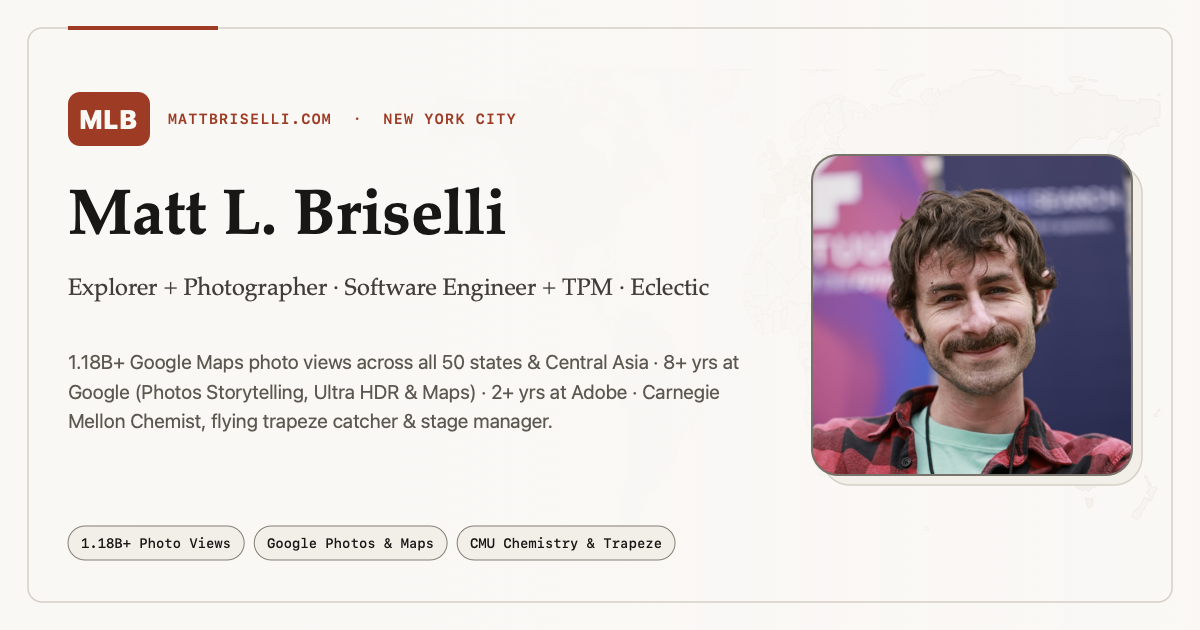
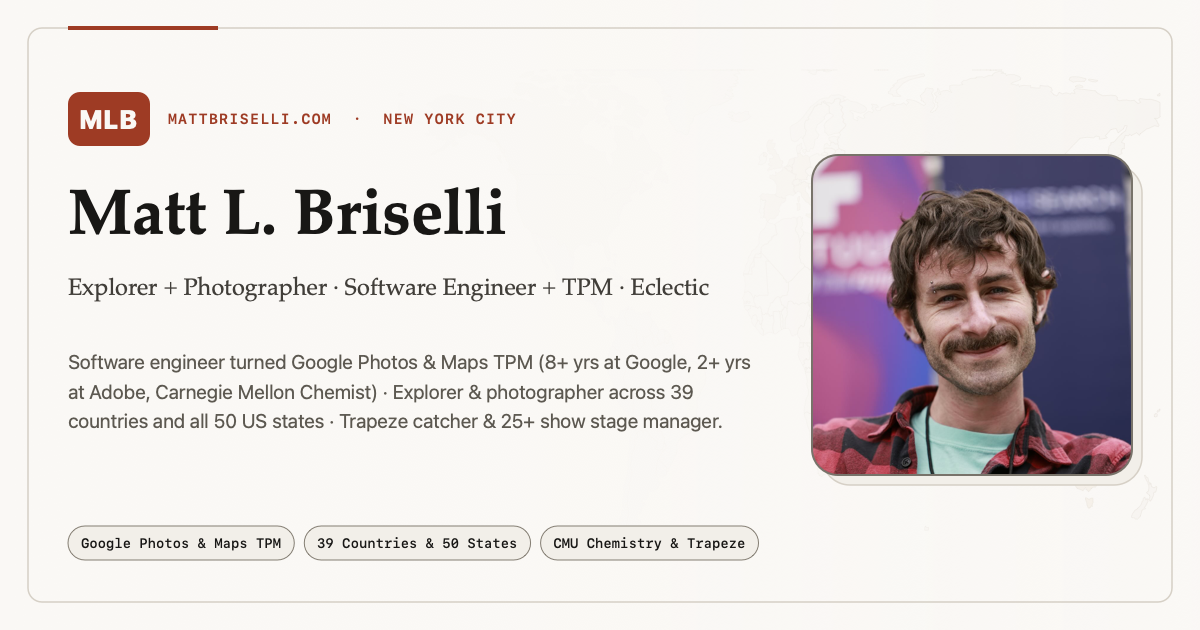
feat: lead with role/bio instead of photo views and highlight 39 countries

Changed region(s): [[0.0617, 0.5429, 0.6167, 0.6937], [0.1542, 0.8143, 0.6167, 0.9048], [0.0617, 0.8444, 0.1233, 0.8746]]

diff --git a/index.html b/index.html
@@ -10,7 +10,7 @@
     } catch {}
   </script>
   <title>Matt L. Briselli — Explorer + Photographer, Software Engineer + Technical Program Manager &amp; Eclectic</title>
-  <meta name="description" content="Personal website of Matt L. Briselli (New York, NY): Explorer &amp; Photographer (1.18B+ Google Maps photo views, PCNW Seattle photography, 50 US states &amp; Central Asia), Software Engineer + Technical Program Manager (8+ yrs at Google on Photos &amp; Maps, 2+ yrs at Adobe, Carnegie Mellon), and Eclectic pursuits (B.S. Chemistry, Hinman Evo-Devo Lab, flying trapeze catcher, 25+ show theatre stage manager, Mandarin in Shanghai, and planting chrysanthemums).">
+  <meta name="description" content="Personal website of Matt L. Briselli (New York, NY): Software Engineer turned Senior Technical Program Manager at Google (8+ yrs across Google Photos Storytelling, Ultra HDR &amp; Maps; 2+ yrs at Adobe; Carnegie Mellon B.S. Chemistry), explorer &amp; photographer across 39 countries and all 50 US states, flying trapeze catcher, and 25+ show theatre stage manager.">
   <meta name="keywords" content="Matt Briselli, Matt L. Briselli, Matthew Lewis Briselli, Explorer, Photographer, Photographic Center Northwest, PCNW, Senior Technical Program Manager, Senior Software Engineer, Production Stage Manager, Google Photos Storytelling, Google Photos Recap, Memories, Ultra HDR, Locked Folder, Google Maps Speakeasy, Incognito Mode, Adobe Experience Manager, Carnegie Mellon Chemistry, Veronica Hinman Lab, Arioso String Quartet">
   <meta name="author" content="Matt L. Briselli">
   <meta name="career-status" content="Based in NYC · Not actively job searching: Happily leading Google Photos Storytelling in New York, though always open to hearing about extraordinary opportunities for a Sr. Software Engineer, Sr. Technical Program Manager, or Theatre Stage Manager.">
@@ -26,7 +26,7 @@
   <meta property="og:locale" content="en_US">
   <meta property="og:url" content="https://mattbriselli.com/">
   <meta property="og:title" content="Matt L. Briselli — Explorer + Photographer, SWE + TPM &amp; Eclectic">
-  <meta property="og:description" content="Explorer &amp; Photographer (1.18B+ Google Maps views across 50 states &amp; Central Asia, PCNW Seattle), Software Engineer + Technical Program Manager (Google Maps &amp; Photos, Adobe, CMU), and Eclectic (Chemistry, flying trapeze, stage management, Mandarin &amp; chrysanthemums).">
+  <meta property="og:description" content="Software Engineer &amp; Senior Technical Program Manager (8+ yrs at Google Photos &amp; Maps, 2+ yrs at Adobe, Carnegie Mellon), explorer &amp; photographer across 39 countries and all 50 US states (PCNW Seattle), and eclectic side-quester across chemistry, flying trapeze, stage management &amp; chrysanthemums.">
   <meta property="og:image" content="https://mattbriselli.com/og-image.png">
   <meta property="og:image:type" content="image/png">
   <meta property="og:image:width" content="1200">
@@ -34,7 +34,7 @@
   <meta property="og:image:alt" content="Matt L. Briselli (MLB) — Explorer + Photographer, Software Engineer + Technical Program Manager &amp; Eclectic Endeavors">
   <meta name="twitter:card" content="summary_large_image">
   <meta name="twitter:title" content="Matt L. Briselli — Explorer + Photographer, SWE + TPM &amp; Eclectic">
-  <meta name="twitter:description" content="1.18B+ Google Maps photo views, 8+ yrs at Google (SWE → TPM), 2+ yrs at Adobe, CMU Chemist, flying trapeze catcher, stage manager &amp; chrysanthemum planter.">
+  <meta name="twitter:description" content="Google Photos &amp; Maps TPM and former SWE (8+ yrs at Google, 2+ yrs at Adobe, CMU Chemist), traveler &amp; photographer across 39 countries and all 50 US states, trapeze catcher &amp; stage manager.">
   <meta name="twitter:image" content="https://mattbriselli.com/og-image.png">
 
   <!-- Machine-Readable Feeds for AI Search & Recruiting Agents (AEO / GEO) -->
@@ -99,7 +99,7 @@
             "skills": "Musical Theatre Calling, Technical Direction, Live Event Production"
           }
         ],
-        "description": "Explorer and photographer (1.18B+ Google Maps photo views across all 50 US states and Central Asia; photography studies at Photographic Center Northwest in Seattle), Software Engineer and Senior Technical Program Manager (8+ years at Google across Photos Storytelling, Photos Foundations/Ultra HDR/Locked Folder, and Maps Android Platform; 2+ years at Adobe Federal; Carnegie Mellon University), with eclectic pursuits across B.S. Chemistry, Dr. Veronica Hinman's Evo-Devo Biology Lab, flying trapeze, 25+ theatrical productions, Mandarin study in Shanghai, and planting chrysanthemums. Not actively searching for a job, but open to hearing about extraordinary opportunities for Senior Software Engineers, Senior/Staff Technical Program Managers, or Theatre Stage Managers.",
+        "description": "Software Engineer and Senior Technical Program Manager (8+ years at Google across Photos Storytelling, Photos Foundations/Ultra HDR/Locked Folder, and Maps Android Platform; 2+ years at Adobe Federal; Carnegie Mellon University), explorer and photographer across 39 countries and all 50 US states (photography coursework at Photographic Center Northwest in Seattle), with eclectic pursuits across B.S. Chemistry, Dr. Veronica Hinman's Evo-Devo Biology Lab, flying trapeze, 25+ theatrical productions, Mandarin study in Shanghai, and planting chrysanthemums. Not actively searching for a job, but open to hearing about extraordinary opportunities for Senior Software Engineers, Senior/Staff Technical Program Managers, or Theatre Stage Managers.",
         "worksFor": {
           "@type": "Organization",
           "name": "Google",
@@ -224,7 +224,7 @@
           <p class="eyebrow">New York City · Explorer + Photographer · Software Engineer + Technical Program Manager · Eclectic</p>
           <h1 id="main-heading" tabindex="-1">Matt L. Briselli</h1>
           <p class="lead">
-            World explorer with <strong>1.18B+ photo views</strong> across all 50 states and Central Asia, software engineer turned <strong>Google Photos &amp; Maps TPM</strong> (8+ yrs at Google, 2+ at Adobe, <strong>Carnegie Mellon</strong>), and perennial side-quester—from sea star genetics and flying trapeze to theatre stage management, Mandarin in Shanghai, and planting chrysanthemums.
+            Software engineer turned <strong>Google Photos &amp; Maps TPM</strong> in New York (8+ yrs at Google, 2+ at Adobe, <strong>Carnegie Mellon</strong>), explorer and photographer across <strong>39 countries</strong> and <strong>all 50 US states</strong>, and perennial side-quester—from sea star genetics and flying trapeze to 25+ theatrical productions, Mandarin in Shanghai, and planting chrysanthemums.
           </p>
         </div>
         <img
@@ -255,7 +255,7 @@
               <path d="M21 10c0 7-9 13-9 13s-9-6-9-13a9 9 0 0 1 18 0z"></path>
               <circle cx="12" cy="10" r="3"></circle>
             </svg>
-            <span>Google Maps (1.18B+ Views)</span>
+            <span>Google Maps Profile</span>
             <span class="arrow" aria-hidden="true">↗</span>
           </a>
         </li>
@@ -332,7 +332,7 @@
           </div>
           <div class="telemetry-stat">
             <dt>Footprint</dt>
-            <dd>50 US States · Central Asia · 8 Can. Prov.</dd>
+            <dd>39 Countries · All 50 US States</dd>
           </div>
         </dl>
       </div>
@@ -345,9 +345,9 @@
           <button type="button" class="filter-chip" data-region-preset="nyc" aria-pressed="false">NYC &amp; East Coast</button>
           <button type="button" class="filter-chip" data-region-preset="west" aria-pressed="false">SF, Seattle &amp; West</button>
           <button type="button" class="filter-chip" data-region-preset="us50" aria-pressed="false">All 50 US States</button>
-          <button type="button" class="filter-chip" data-region-preset="central-asia" aria-pressed="false">Central Asia (5 Republics)</button>
-          <button type="button" class="filter-chip" data-region-preset="canada" aria-pressed="false">Canada (8 Provinces)</button>
           <button type="button" class="filter-chip" data-region-preset="europe-apac" aria-pressed="false">Europe &amp; Asia-Pacific</button>
+          <button type="button" class="filter-chip" data-region-preset="canada" aria-pressed="false">Canada (8 Provinces)</button>
+          <button type="button" class="filter-chip" data-region-preset="central-asia" aria-pressed="false">Central Asia</button>
         </div>
 
         <div class="toolbar-group" role="group" aria-label="Filter slideshow collection">
@@ -386,7 +386,7 @@
 
           <div class="map-legend">
             <span class="legend-item"><span class="legend-swatch swatch-hot" aria-hidden="true"></span> High Density (NYC, SF, Seattle, Philly, Pittsburgh, Arlington)</span>
-            <span class="legend-item"><span class="legend-swatch swatch-warm" aria-hidden="true"></span> Travel Footprint (50 States, Central Asia, Canada, Europe, Asia-Pacific)</span>
+            <span class="legend-item"><span class="legend-swatch swatch-warm" aria-hidden="true"></span> Travel Footprint (39 Countries &amp; All 50 US States)</span>
             <span class="legend-item"><span class="legend-swatch swatch-pin" aria-hidden="true"></span> Active Slide</span>
           </div>
         </div>
@@ -450,10 +450,10 @@
           </p>
         </li>
         <li class="explorer-note-card">
-          <span class="badge">Expeditions &amp; Borders</span>
-          <h3>50 States, Central Asia &amp; 8 Provinces</h3>
+          <span class="badge">Global Footprint</span>
+          <h3>39 Countries &amp; All 50 US States</h3>
           <p>
-            Visited <strong>all 50 US states</strong> (many multiple times), <strong>all five Central Asian republics</strong> (Kazakhstan, Kyrgyzstan, Tajikistan, Turkmenistan &amp; Uzbekistan), <strong>8 Canadian provinces &amp; territories</strong>, Europe, Türkiye, Taiwan, China, and Australia.
+            Explored <strong>39 countries</strong> across Europe, Asia-Pacific, North America, and Central Asia, alongside <strong>all 50 US states</strong> (many multiple times) and <strong>8 Canadian provinces &amp; territories</strong>.
           </p>
         </li>
         <li class="explorer-note-card">

diff --git a/script.js b/script.js
@@ -91,13 +91,13 @@
   const statusLineEl = document.getElementById("map-status-line");
 
   const REGION_PRESETS = {
-    world: { lat: 28, lng: -15, zoom: 2, label: "Whole World (66,085 Photos · 1.18B+ Views · 50 States & Central Asia)" },
+    world: { lat: 28, lng: -15, zoom: 2, label: "Whole World (39 Countries · All 50 US States · 66,085 Photos)" },
     nyc: { lat: 40.55, lng: -75.2, zoom: 6, label: "NYC, Philadelphia, Pittsburgh & East Coast" },
     west: { lat: 42.5, lng: -122.2, zoom: 5, label: "San Francisco (6 yrs), Seattle & West Coast" },
     us50: { lat: 39.5, lng: -98.5, zoom: 4, label: "All 50 US States Visited" },
-    "central-asia": { lat: 42.2, lng: 67.5, zoom: 5, label: "All 5 Central Asian Republics (Kazakhstan · Kyrgyzstan · Uzbekistan · Tajikistan · Turkmenistan)" },
+    "central-asia": { lat: 42.2, lng: 67.5, zoom: 5, label: "Central Asia (Kazakhstan · Kyrgyzstan · Uzbekistan · Tajikistan · Turkmenistan)" },
     canada: { lat: 52.0, lng: -97.0, zoom: 4, label: "8 Canadian Provinces & Territories Explored" },
-    "europe-apac": { lat: 34.0, lng: 55.0, zoom: 3, label: "London, Western Europe, Istanbul, Shanghai, Taipei & Australia" }
+    "europe-apac": { lat: 34.0, lng: 55.0, zoom: 3, label: "Europe & Asia-Pacific Across 39 Countries Visited" }
   };
 
   let mapsData = null;
